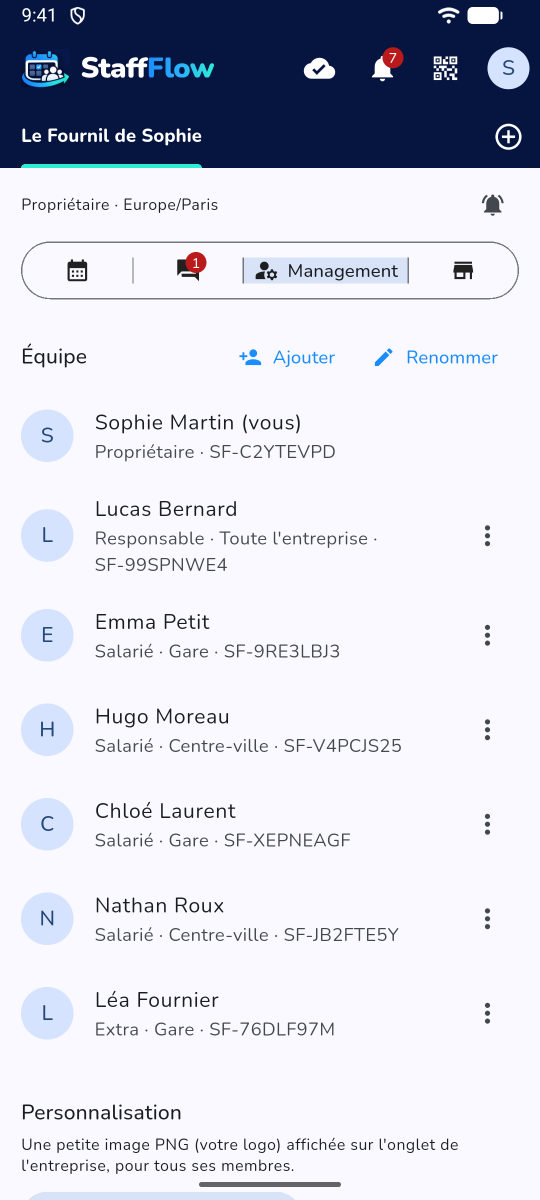
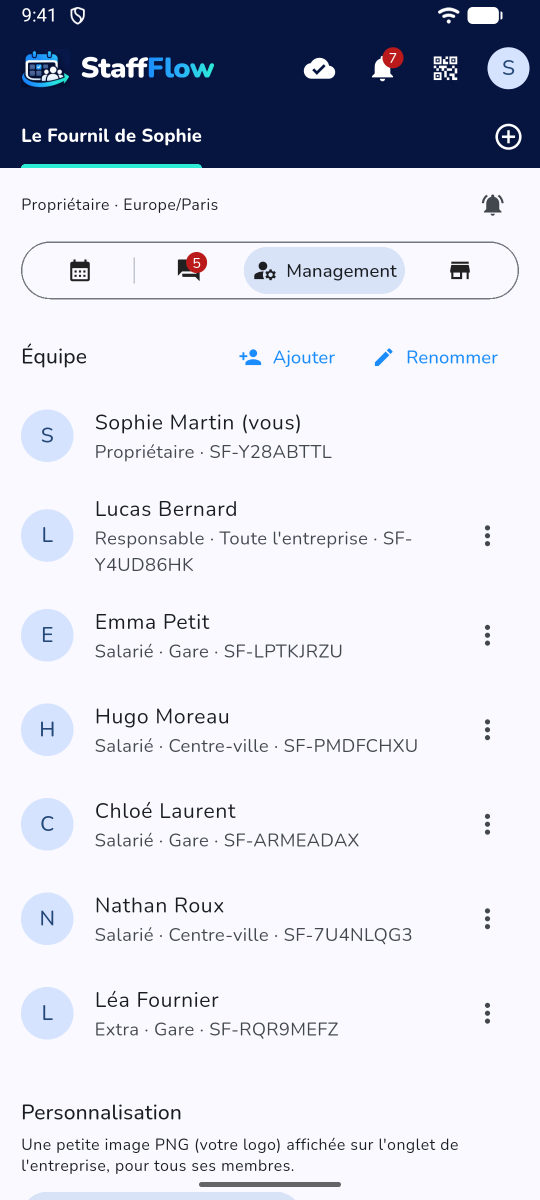
Site vitrine : captures refaites avec le nouveau sélecteur de vues

diff --git a/site/www/ua/index.html b/site/www/ua/index.html
@@ -43,7 +43,7 @@
       <ul class="checks"><li>2 дні повного доступу</li><li>Безкоштовно для працівників</li><li>Графік видно навіть без мережі</li></ul>
     </div>
     <div class="hero-phone">
-      <div class="phone"><img src="/img/uk/1-planning.jpg" alt="Графік на тиждень" width="540" height="1200"></div>
+      <div class="phone"><img src="/img/uk/1-planning.jpg?v=2" alt="Графік на тиждень" width="540" height="1200"></div>
     </div>
   </div>
 </section>
@@ -68,11 +68,11 @@
     <h2>Як виглядає застосунок</h2>
     <p class="sub">Справжні знімки екрана — саме так ви побачите все на своєму телефоні.</p>
     <div class="shots">
-      <figure><img src="/img/uk/1-planning.jpg" alt="Графік на тиждень" width="540" height="1200" loading="lazy"><figcaption>Графік на тиждень<span>Хто, коли й де працює — з одного погляду.</span></figcaption></figure>
-      <figure><img src="/img/uk/2-service.jpg" alt="Нова зміна" width="540" height="1200" loading="lazy"><figcaption>Нова зміна<span>Шаблони, посада, об'єкт і корисні підказки.</span></figcaption></figure>
-      <figure><img src="/img/uk/3-messages.jpg" alt="Повідомлення" width="540" height="1200" loading="lazy"><figcaption>Повідомлення<span>Запити на обмін змінами з'являються просто в чаті.</span></figcaption></figure>
-      <figure><img src="/img/uk/4-demandes.jpg" alt="Запити" width="540" height="1200" loading="lazy"><figcaption>Запити<span>Обмін змінами й відпустки підтверджуються одним дотиком.</span></figcaption></figure>
-      <figure><img src="/img/uk/5-management.jpg" alt="Управління" width="540" height="1200" loading="lazy"><figcaption>Управління<span>Ваша команда, ролі та об'єкти.</span></figcaption></figure>
+      <figure><img src="/img/uk/1-planning.jpg?v=2" alt="Графік на тиждень" width="540" height="1200" loading="lazy"><figcaption>Графік на тиждень<span>Хто, коли й де працює — з одного погляду.</span></figcaption></figure>
+      <figure><img src="/img/uk/2-service.jpg?v=2" alt="Нова зміна" width="540" height="1200" loading="lazy"><figcaption>Нова зміна<span>Шаблони, посада, об'єкт і корисні підказки.</span></figcaption></figure>
+      <figure><img src="/img/uk/3-messages.jpg?v=2" alt="Повідомлення" width="540" height="1200" loading="lazy"><figcaption>Повідомлення<span>Запити на обмін змінами з'являються просто в чаті.</span></figcaption></figure>
+      <figure><img src="/img/uk/4-demandes.jpg?v=2" alt="Запити" width="540" height="1200" loading="lazy"><figcaption>Запити<span>Обмін змінами й відпустки підтверджуються одним дотиком.</span></figcaption></figure>
+      <figure><img src="/img/uk/5-management.jpg?v=2" alt="Управління" width="540" height="1200" loading="lazy"><figcaption>Управління<span>Ваша команда, ролі та об'єкти.</span></figcaption></figure>
     </div>
   </div>
 </section>

diff --git a/site/www/fr/index.html b/site/www/fr/index.html
@@ -43,7 +43,7 @@
       <ul class="checks"><li>2 jours d'essai complet</li><li>Gratuit pour les salariés</li><li>Consultable même sans réseau</li></ul>
     </div>
     <div class="hero-phone">
-      <div class="phone"><img src="/img/fr/1-planning.jpg" alt="Le planning de la semaine" width="540" height="1200"></div>
+      <div class="phone"><img src="/img/fr/1-planning.jpg?v=2" alt="Le planning de la semaine" width="540" height="1200"></div>
     </div>
   </div>
 </section>
@@ -68,11 +68,11 @@
     <h2>Un aperçu de l'application</h2>
     <p class="sub">De vraies captures d'écran, telles que vous les verrez sur votre téléphone.</p>
     <div class="shots">
-      <figure><img src="/img/fr/1-planning.jpg" alt="Le planning de la semaine" width="540" height="1200" loading="lazy"><figcaption>Le planning de la semaine<span>Qui travaille, quand et où, d'un coup d'œil.</span></figcaption></figure>
-      <figure><img src="/img/fr/2-service.jpg" alt="Créer un service" width="540" height="1200" loading="lazy"><figcaption>Créer un service<span>Préréglages, poste, site et alertes utiles.</span></figcaption></figure>
-      <figure><img src="/img/fr/3-messages.jpg" alt="La messagerie" width="540" height="1200" loading="lazy"><figcaption>La messagerie<span>Les demandes d'échange arrivent dans la conversation.</span></figcaption></figure>
-      <figure><img src="/img/fr/4-demandes.jpg" alt="Les demandes" width="540" height="1200" loading="lazy"><figcaption>Les demandes<span>Échanges et congés, validés en un tap.</span></figcaption></figure>
-      <figure><img src="/img/fr/5-management.jpg" alt="Le management" width="540" height="1200" loading="lazy"><figcaption>Le management<span>Votre équipe, ses rôles et ses sites.</span></figcaption></figure>
+      <figure><img src="/img/fr/1-planning.jpg?v=2" alt="Le planning de la semaine" width="540" height="1200" loading="lazy"><figcaption>Le planning de la semaine<span>Qui travaille, quand et où, d'un coup d'œil.</span></figcaption></figure>
+      <figure><img src="/img/fr/2-service.jpg?v=2" alt="Créer un service" width="540" height="1200" loading="lazy"><figcaption>Créer un service<span>Préréglages, poste, site et alertes utiles.</span></figcaption></figure>
+      <figure><img src="/img/fr/3-messages.jpg?v=2" alt="La messagerie" width="540" height="1200" loading="lazy"><figcaption>La messagerie<span>Les demandes d'échange arrivent dans la conversation.</span></figcaption></figure>
+      <figure><img src="/img/fr/4-demandes.jpg?v=2" alt="Les demandes" width="540" height="1200" loading="lazy"><figcaption>Les demandes<span>Échanges et congés, validés en un tap.</span></figcaption></figure>
+      <figure><img src="/img/fr/5-management.jpg?v=2" alt="Le management" width="540" height="1200" loading="lazy"><figcaption>Le management<span>Votre équipe, ses rôles et ses sites.</span></figcaption></figure>
     </div>
   </div>
 </section>

diff --git a/site/www/en/index.html b/site/www/en/index.html
@@ -43,7 +43,7 @@
       <ul class="checks"><li>2-day full trial</li><li>Free for employees</li><li>Readable even without signal</li></ul>
     </div>
     <div class="hero-phone">
-      <div class="phone"><img src="/img/en/1-planning.jpg" alt="The week's schedule" width="540" height="1200"></div>
+      <div class="phone"><img src="/img/en/1-planning.jpg?v=2" alt="The week's schedule" width="540" height="1200"></div>
     </div>
   </div>
 </section>
@@ -68,11 +68,11 @@
     <h2>A look at the app</h2>
     <p class="sub">Real screenshots, just as you will see them on your phone.</p>
     <div class="shots">
-      <figure><img src="/img/en/1-planning.jpg" alt="The week's schedule" width="540" height="1200" loading="lazy"><figcaption>The week's schedule<span>Who works when and where, at a glance.</span></figcaption></figure>
-      <figure><img src="/img/en/2-service.jpg" alt="Creating a shift" width="540" height="1200" loading="lazy"><figcaption>Creating a shift<span>Presets, position, site and helpful alerts.</span></figcaption></figure>
-      <figure><img src="/img/en/3-messages.jpg" alt="Messaging" width="540" height="1200" loading="lazy"><figcaption>Messaging<span>Swap requests show up right in the conversation.</span></figcaption></figure>
-      <figure><img src="/img/en/4-demandes.jpg" alt="Requests" width="540" height="1200" loading="lazy"><figcaption>Requests<span>Swaps and leave, approved in one tap.</span></figcaption></figure>
-      <figure><img src="/img/en/5-management.jpg" alt="Management" width="540" height="1200" loading="lazy"><figcaption>Management<span>Your team, its roles and its sites.</span></figcaption></figure>
+      <figure><img src="/img/en/1-planning.jpg?v=2" alt="The week's schedule" width="540" height="1200" loading="lazy"><figcaption>The week's schedule<span>Who works when and where, at a glance.</span></figcaption></figure>
+      <figure><img src="/img/en/2-service.jpg?v=2" alt="Creating a shift" width="540" height="1200" loading="lazy"><figcaption>Creating a shift<span>Presets, position, site and helpful alerts.</span></figcaption></figure>
+      <figure><img src="/img/en/3-messages.jpg?v=2" alt="Messaging" width="540" height="1200" loading="lazy"><figcaption>Messaging<span>Swap requests show up right in the conversation.</span></figcaption></figure>
+      <figure><img src="/img/en/4-demandes.jpg?v=2" alt="Requests" width="540" height="1200" loading="lazy"><figcaption>Requests<span>Swaps and leave, approved in one tap.</span></figcaption></figure>
+      <figure><img src="/img/en/5-management.jpg?v=2" alt="Management" width="540" height="1200" loading="lazy"><figcaption>Management<span>Your team, its roles and its sites.</span></figcaption></figure>
     </div>
   </div>
 </section>

diff --git a/site/tool/build.dart b/site/tool/build.dart
@@ -263,7 +263,7 @@ String page(String l) {
       <ul class="checks">${[for (final c in list('checks')) '<li>${esc(c)}</li>'].join()}</ul>
     </div>
     <div class="hero-phone">
-      <div class="phone"><img src="/img/$dir/1-planning.jpg" alt="${esc(rows('shots')[0][0])}" width="540" height="1200"></div>
+      <div class="phone"><img src="/img/$dir/1-planning.jpg?v=2" alt="${esc(rows('shots')[0][0])}" width="540" height="1200"></div>
     </div>
   </div>
 </section>
@@ -283,7 +283,7 @@ String page(String l) {
     <h2>${s('shotsH')}</h2>
     <p class="sub">${s('shotsSub')}</p>
     <div class="shots">
-      ${[for (final (i, c) in rows('shots').indexed) '<figure><img src="/img/$dir/${shots[i]}.jpg" alt="${esc(c[0])}" width="540" height="1200" loading="lazy"><figcaption>${esc(c[0])}<span>${esc(c[1])}</span></figcaption></figure>'].join('\n      ')}
+      ${[for (final (i, c) in rows('shots').indexed) '<figure><img src="/img/$dir/${shots[i]}.jpg?v=2" alt="${esc(c[0])}" width="540" height="1200" loading="lazy"><figcaption>${esc(c[0])}<span>${esc(c[1])}</span></figcaption></figure>'].join('\n      ')}
     </div>
   </div>
 </section>
